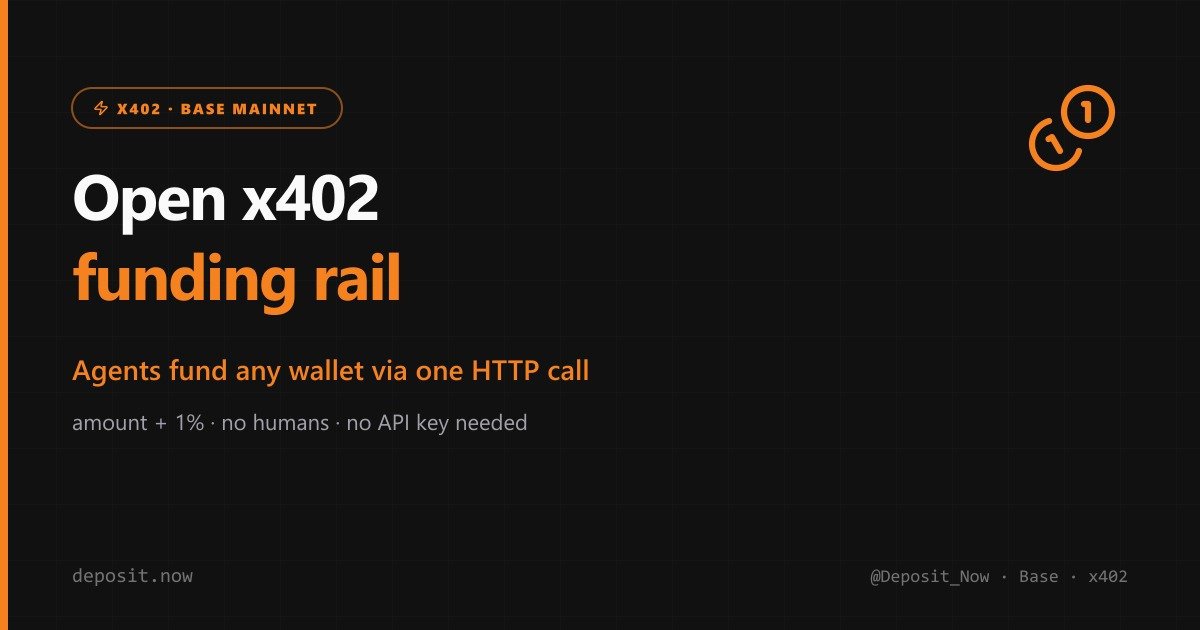
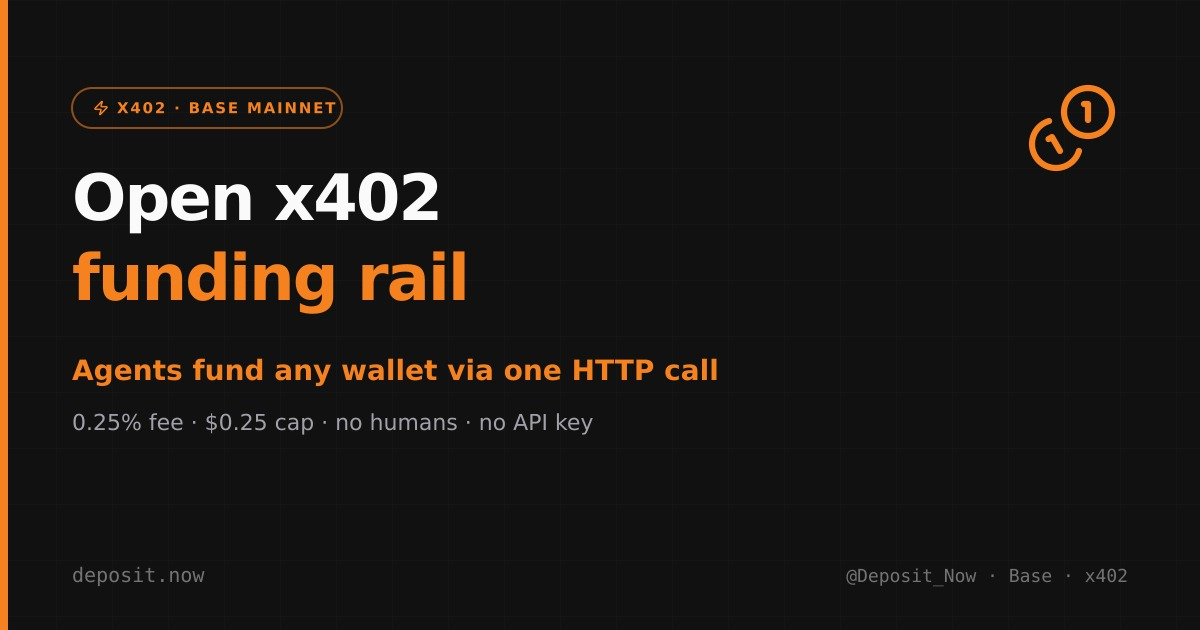
Regenerate share cards so they no longer say 1%
OG, X header, and post images still had baked-in "amount + 1%". Rebuild from the updated scripts and bump og:image cache-bust.

diff --git a/lib/seo.ts b/lib/seo.ts
@@ -23,7 +23,7 @@ export const SITE = {
  * so crawlers fetch a fresh card. JPEG is first: LinkedIn is picky about
  * PNG-with-alpha and ignores Twitter-only tags.
  */
-export const OG_IMAGE_VERSION = '20260828';
+export const OG_IMAGE_VERSION = '20260829';
 
 const OG_JPG = `${BASE}/og.jpg?v=${OG_IMAGE_VERSION}`;
 const OG_PNG = `${BASE}/og.png?v=${OG_IMAGE_VERSION}`;
